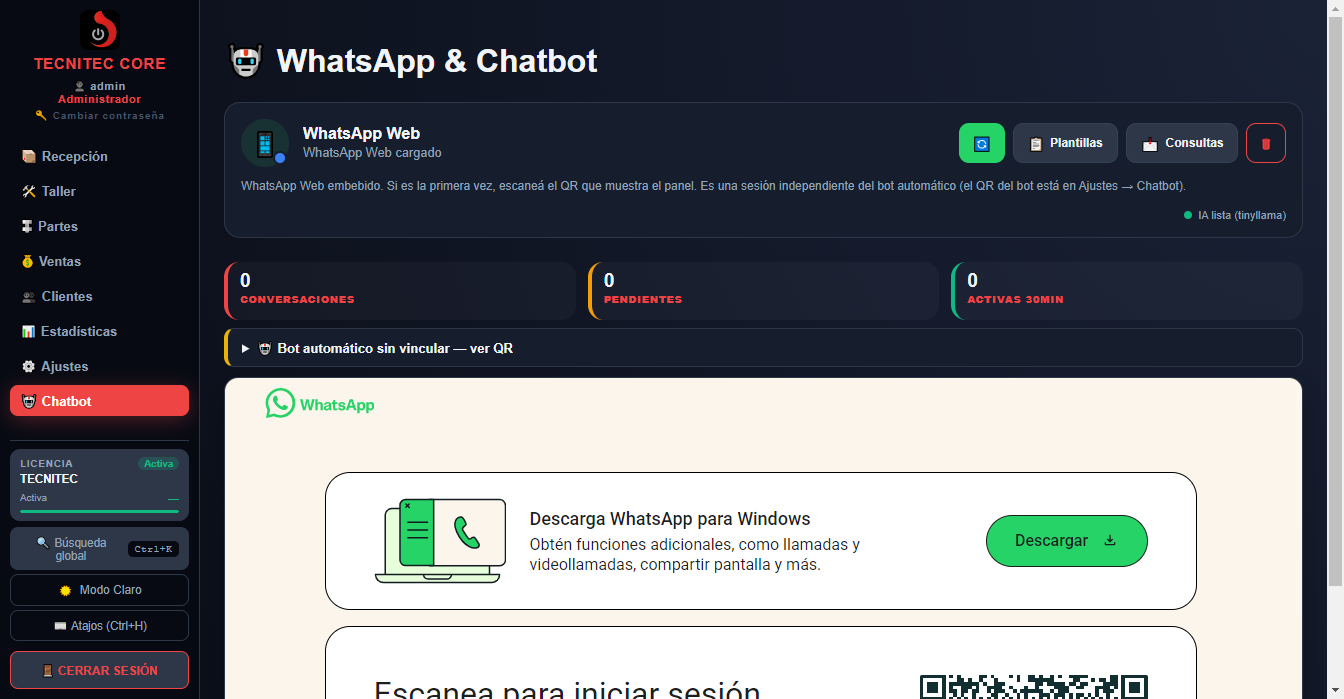
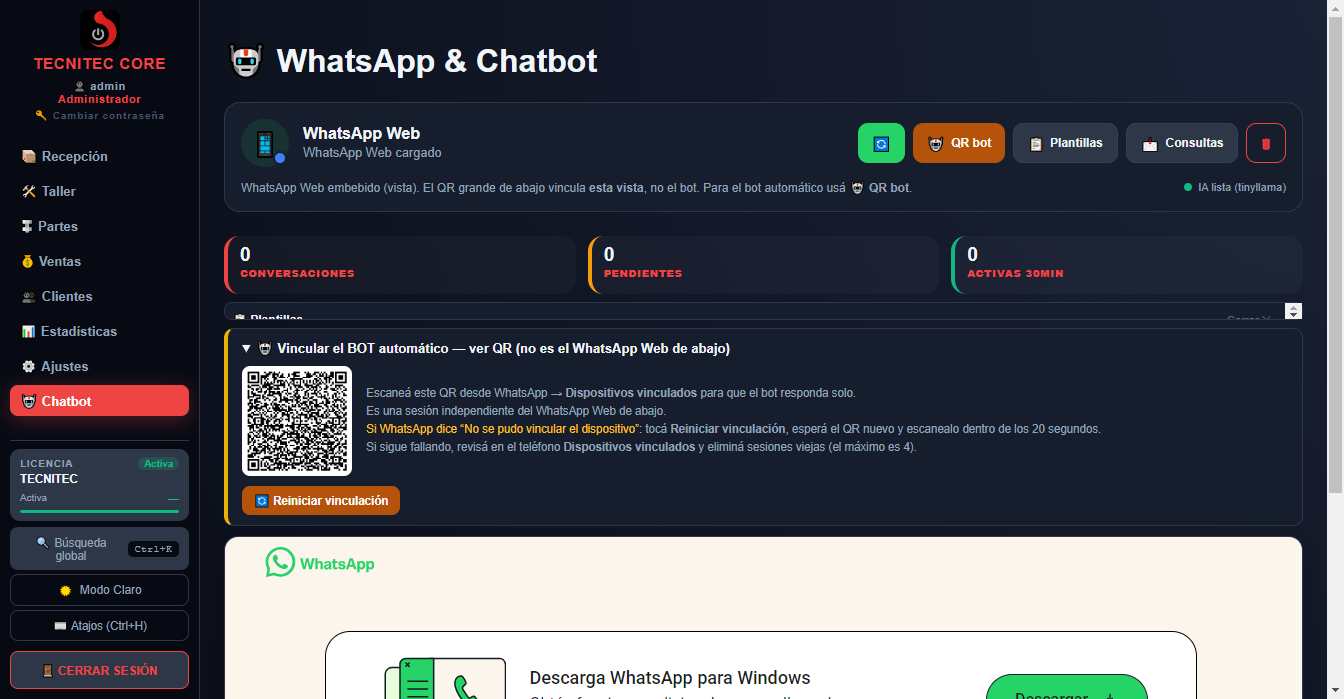
actualizacion automatica [mar. 17/11/2026 11:50:18,08]

diff --git a/index.html b/index.html
@@ -9323,6 +9323,10 @@ Ajustar stock (número positivo para agregar, negativo para restar):`, '0');
                     style="padding:10px 14px; background:var(--whatsapp); color:white; border:none; border-radius:10px; cursor:pointer; font-weight:bold; font-size:0.85rem;">
                     🔄
                 </button>
+                <button onclick="abrirQRBot()" title="Ver el QR para vincular el bot automático"
+                    style="display:inline-flex; align-items:center; gap:6px; padding:10px 14px; background:#b45309; color:white; border:none; border-radius:10px; cursor:pointer; font-weight:bold; font-size:0.85rem;">
+                    🤖 <span style="font-size:0.75rem;">QR bot</span>
+                </button>
                 <button onclick="togglePlantillasBarra()" title="Plantillas de respuesta rápida"
                     style="display:inline-flex; align-items:center; gap:6px; padding:10px 14px; background:var(--accent); color:var(--text); border:1px solid #334155; border-radius:10px; cursor:pointer; font-weight:bold; font-size:0.85rem;">
                     📋 <span style="font-size:0.75rem;">Plantillas</span>
@@ -9342,8 +9346,8 @@ Ajustar stock (número positivo para agregar, negativo para restar):`, '0');
         <!-- Info simplificada + estado IA -->
         <div id="wa-connected-info" style="margin-top:12px; display:flex; align-items:center; gap:16px; flex-wrap:wrap;">
             <div style="font-size:0.75rem; color:var(--text-muted);">
-                WhatsApp Web embebido. Si es la primera vez, escaneá el QR que muestra el panel.
-                Es una sesión independiente del bot automático (el QR del bot está en Ajustes → Chatbot).
+                WhatsApp Web embebido (vista). El QR grande de abajo vincula <b>esta vista</b>, no el bot.
+                Para el bot automático usá <b>🤖 QR bot</b>.
             </div>
             <div style="display:flex; align-items:center; gap:6px; font-size:0.7rem; color:var(--text-muted); margin-left:auto;">
                 <span id="ai-status-dot" style="width:8px;height:8px;border-radius:50%;background:#64748b;display:inline-block;"></span>
@@ -9625,7 +9629,7 @@ Ajustar stock (número positivo para agregar, negativo para restar):`, '0');
                     console.log('[WA Bot QR] Poll - activo:' + _chatbotActivoCfg + ' qr:' + (qrRes.qr ? 'si' : 'no'));
                     _actualizarBotQRUI(qrRes);
                 } catch (e) { }
-            }, 20000);
+            }, 5000); // el QR de WhatsApp rota cada ~20 s; refrescar cada 5 s evita escanear uno vencido
         }
 
         function _actualizarBotQRUI(data) {
@@ -9656,14 +9660,22 @@ Ajustar stock (número positivo para agregar, negativo para restar):`, '0');
                     // no tapar el WhatsApp Web embebido.
                     var estabaAbierto = !!slot.open;
                     slot.style.display = 'block';
-                    slot.innerHTML = '<summary style="cursor:pointer;font-weight:700;color:var(--text);font-size:.82rem;">🤖 Bot automático sin vincular — ver QR</summary>' +
+                    slot.innerHTML = '<summary style="cursor:pointer;font-weight:700;color:var(--text);font-size:.82rem;">🤖 Vincular el BOT automático — ver QR (no es el WhatsApp Web de abajo)</summary>' +
                         '<div style="display:flex;gap:14px;align-items:center;margin-top:10px;flex-wrap:wrap;">' +
-                        '<img src="' + data.qr + '" alt="QR del bot" style="width:110px;height:110px;background:#fff;border-radius:8px;padding:4px;">' +
-                        '<div style="flex:1;min-width:180px;font-size:.72rem;color:var(--text-muted);line-height:1.5;">' +
+                        '<img src="' + data.qr + '" alt="QR del bot automático" style="width:110px;height:110px;background:#fff;border-radius:8px;padding:4px;">' +
+                        '<div style="flex:1;min-width:200px;font-size:.72rem;color:var(--text-muted);line-height:1.55;">' +
                         'Escaneá este QR desde WhatsApp → <b>Dispositivos vinculados</b> para que el bot responda solo.<br>' +
-                        'Es una sesión independiente del WhatsApp Web de abajo.' +
-                        '</div></div>';
-                    slot.open = estabaAbierto;
+                        'Es una sesión independiente del WhatsApp Web de abajo.<br>' +
+                        '<span style="color:#fbbf24;">Si WhatsApp dice “No se pudo vincular el dispositivo”:</span> tocá <b>Reiniciar vinculación</b>, esperá el QR nuevo y escanealo dentro de los 20 segundos.<br>' +
+                        'Si sigue fallando, revisá en el teléfono <b>Dispositivos vinculados</b> y eliminá sesiones viejas (el máximo es 4).' +
+                        '</div></div>' +
+                        '<div style="margin-top:10px;display:flex;gap:8px;flex-wrap:wrap;">' +
+                        '<button onclick="resetBotWA()" style="padding:7px 12px;background:#b45309;color:white;border:none;border-radius:8px;cursor:pointer;font-size:.72rem;font-weight:700;">🔄 Reiniciar vinculación</button>' +
+                        '</div>';
+                    // La primera vez se abre sola, para que no se escanee por error
+                    // el QR de WhatsApp Web embebido.
+                    if (slot.dataset.iniciado !== '1') { slot.open = true; slot.dataset.iniciado = '1'; }
+                    else slot.open = estabaAbierto;
                     if (popup) { popup.style.display = 'none'; popup.remove(); popup = null; }
                 } else if (!popup) {
                     popup = document.createElement('div');
@@ -9714,7 +9726,7 @@ Ajustar stock (número positivo para agregar, negativo para restar):`, '0');
 
         function resetBotWA() {
             cerrarAvisoBotWA();
-            if (!confirm('Se va a borrar la sesión de WhatsApp y vas a tener que escanear el QR de nuevo. ¿Continuar?')) return;
+            if (!confirm('Se va a borrar la sesión del BOT automático y vas a tener que escanear el QR de nuevo. ¿Continuar?')) return;
             apiFetch(`${API}/wa-bot/reset`, { method: 'POST' })
                 .then(() => showToast('🧹 Sesión borrada. Esperá el nuevo QR…', 'info'))
                 .catch(() => showToast('❌ No se pudo borrar la sesión', 'error'));
@@ -9724,6 +9736,18 @@ Ajustar stock (número positivo para agregar, negativo para restar):`, '0');
             var e = document.getElementById('bot-error-box');
             if (e) e.remove();
         }
+
+        // Lleva al QR del bot automático (el de la tarjeta), no al de WhatsApp Web.
+        function abrirQRBot() {
+            var slot = document.getElementById('wa-bot-qr-slot');
+            if (!slot || slot.style.display === 'none') {
+                showToast('El bot automático ya está conectado o está inactivo.', 'info');
+                return;
+            }
+            slot.open = true;
+            try { slot.scrollIntoView({ behavior: 'smooth', block: 'center' }); } catch (_) { }
+        }
+        window.abrirQRBot = abrirQRBot;
 
         // ── Consultas ─────────────────────────────────────────────────────────────────
         function abrirRespuestaConsulta(consultaId, telefono, nombre, descripcion) {

diff --git a/server.js b/server.js
@@ -2838,6 +2838,33 @@ let _waTimerReintento = null;
 // Reintentos del bot: con espera creciente y con tope, para no quedar en un
 // bucle infinito de "abre Chrome / cierra Chrome" cuando la sesión es inválida.
 const WA_MAX_REINTENTOS = 5;
+// whatsapp-web.js usa por defecto un User-Agent de Chrome 101 (macOS), que
+// WhatsApp Web rechaza al vincular ("No se pudo vincular el dispositivo").
+// Se arma un UA de Chrome de escritorio acorde al Chrome instalado.
+function _waUAChrome(chromePath) {
+    const plantilla = 'Mozilla/5.0 (Windows NT 10.0; Win64; x64) AppleWebKit/537.36 (KHTML, like Gecko) Chrome/{v}.0.0.0 Safari/537.36';
+    return new Promise((resolve) => {
+        const terminar = (mayor) => resolve(plantilla.replace('{v}', /^\d+$/.test(String(mayor)) ? String(mayor) : '142'));
+        if (process.platform !== 'win32') return terminar('');
+        try {
+            const { execFile } = require('child_process');
+            // Lectura rápida desde el registro de Chrome.
+            execFile('reg.exe', ['query', 'HKCU\\Software\\Google\\Chrome\\BLBeacon', '/v', 'version'], { timeout: 3000, windowsHide: true }, (err, stdout) => {
+                if (!err) {
+                    const m = String(stdout).match(/version\s+REG_SZ\s+(\d+)\./i);
+                    if (m) return terminar(m[1]);
+                }
+                // Respaldo: versión del archivo chrome.exe.
+                execFile('powershell.exe', ['-NoProfile', '-NonInteractive', '-Command',
+                    `(Get-Item -LiteralPath '${String(chromePath || '').replace(/'/g, "''")}').VersionInfo.ProductVersion`],
+                    { timeout: 5000, windowsHide: true }, (err2, stdout2) => {
+                        const m2 = !err2 && String(stdout2).match(/(\d+)\./);
+                        terminar(m2 ? m2[1] : '');
+                    });
+            });
+        } catch (_) { terminar(''); }
+    });
+}
 const WA_SESION_DIR = path.join(DATA_DIR, 'wa-session');
 
 async function _waDestruirCliente() {
@@ -2970,11 +2997,15 @@ async function _iniciarWABot() {
             return;
         }
 
+        const uaBot = await _waUAChrome(chromePath);
+        logger.info('[WA Bot] User-Agent: ' + uaBot);
+
         waClient = new Client({
             // WhatsApp Web a veces tarda más de 30 s (red lenta, primer arranque,
             // actualización del bundle). El default de la librería es 30 s y
             // provoca "Waiting failed: 30000ms exceeded".
             authTimeoutMs: 180000,
+            userAgent: uaBot,
             puppeteer: {
                 executablePath: chromePath,
                 headless: true,
@@ -3009,6 +3040,23 @@ async function _iniciarWABot() {
             logger.info('[WA Bot] Conectado!');
             try { db.prepare(`UPDATE whatsapp_sesion SET estado='LISTO', conectado_en=datetime('now'), ultima_actividad=datetime('now') WHERE id=1`).run(); } catch(_) {}
             broadcastWS('wa_status', { estado: 'LISTO', conectado: true });
+        });
+        // WhatsApp rechazó la vinculación (QR vencido, navegador no soportado,
+        // límite de dispositivos, etc.). La sesión local queda inservible: se
+        // borra y se muestra un QR nuevo automáticamente.
+        waClient.on('auth_failure', async (msg) => {
+            const motivo = String(msg || 'fallo de autenticación');
+            _waConectado = false;
+            _waError = 'No se pudo vincular el dispositivo: ' + motivo;
+            logger.warn('[WA Bot] auth_failure: ' + motivo);
+            try { db.prepare(`UPDATE whatsapp_sesion SET estado='DESCONECTADO' WHERE id=1`).run(); } catch(_) {}
+            broadcastWS('wa_status', { estado: 'DESCONECTADO', conectado: false, motivo: _waError });
+            _waManejandoDesconexion = true;
+            try { await _waDestruirCliente(); } catch (_) {}
+            _waManejandoDesconexion = false;
+            _waPurgarSesion();
+            _waIniciando = false;
+            _waProgramarReintento('auth_failure: ' + motivo);
         });
         waClient.on('message', async (msg) => {
             try {
@@ -3101,6 +3149,15 @@ async function _iniciarWABot() {
             }
         });
         await waClient.initialize();
+
+        // Diagnóstico: qué UA y qué versión de WhatsApp Web está usando el bot.
+        try {
+            const info = await waClient.pupPage.evaluate(() => ({
+                ua: navigator.userAgent,
+                version: (window.Debug && window.Debug.VERSION) || ''
+            }));
+            logger.info('[WA Bot] Navegador: ' + info.ua + ' | WhatsApp Web: ' + (info.version || '?'));
+        } catch (_) {}
 
         // El Chrome del bot en prioridad baja: que no compita con la interfaz.
         try {
